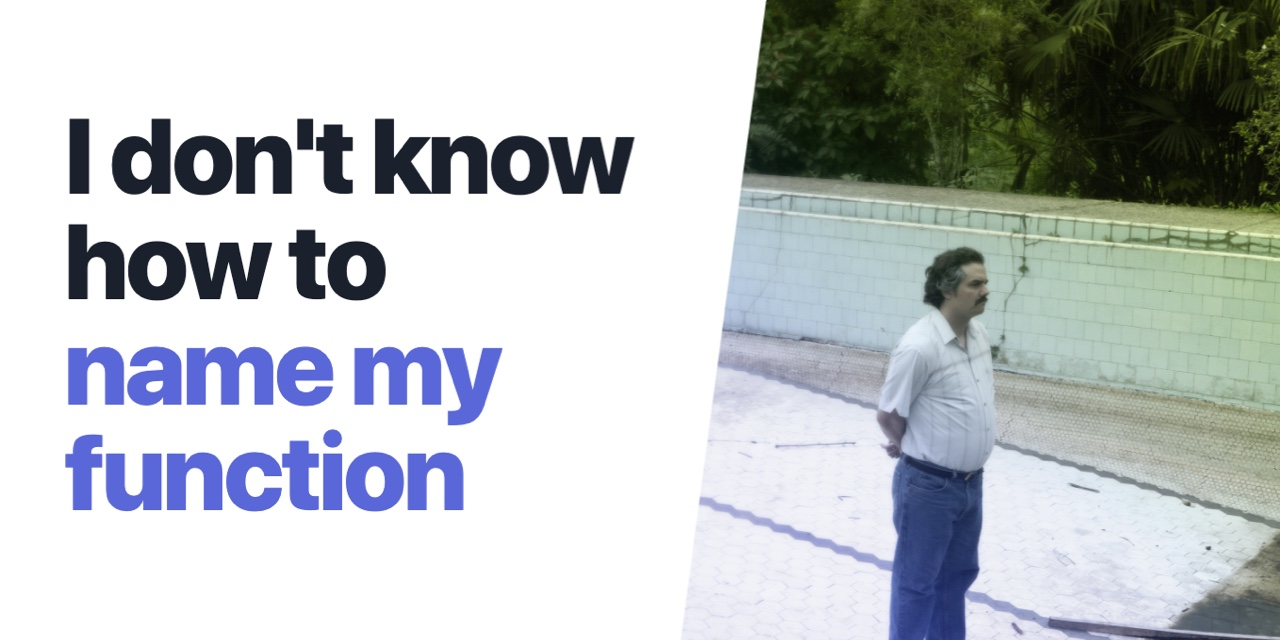
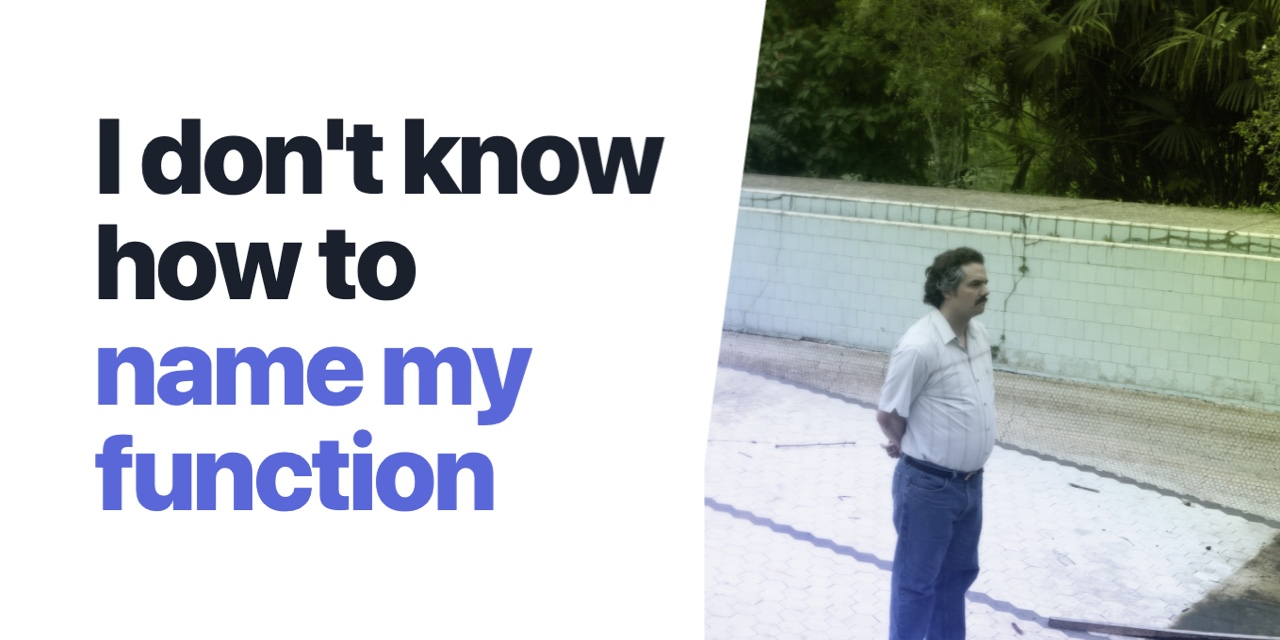
feat: improvements

Changed region(s): [[0.0312, 0.5312, 0.4375, 0.8125], [0.0312, 0.1875, 0.5312, 0.3125], [0.0312, 0.3438, 0.3438, 0.4688]]

diff --git a/src/pages/index.tsx b/src/pages/index.tsx
@@ -12,6 +12,7 @@ import Form from 'components/Form'
 import SyntaxHighlight from 'components/syntax'
 import Footer from 'components/footer'
 import createName from 'components/createName'
+import data from 'components/data'
 
 const IndexPage: React.FC = () => {
   const [state, setState] = useState<State>({
@@ -19,7 +20,7 @@ const IndexPage: React.FC = () => {
     functionalVerb: TypeFunctionVerb.Get,
     sideEffectVerb: TypeSideEffectVerb.Detach,
     functionReturnType: TypeReturn['List'],
-    context: 'Function name',
+    context: 'Table view',
     ninjaMode: false,
     reactHook: false,
   })
@@ -52,10 +53,14 @@ const IndexPage: React.FC = () => {
                     Development can be more challenging than you thought.
                   </span>{' '}
                   It&apos;s not about algorithms, data structures, or whatever,
-                  but about naming function and variables! (fearful face)
+                  but about naming functions and variables! (fearful face)
                   Here&apos;s a tool to help you in this intense journey: naming
                   a function.
                 </p>
+
+                <div className="lg:hidden block relative font-sans overflow-hidden mt-10">
+                  <SyntaxHighlight state={state} code={createName(state)} />
+                </div>
 
                 <AnimatePresence>
                   {started && (
@@ -74,15 +79,33 @@ const IndexPage: React.FC = () => {
                     <div className="rounded-md shadow">
                       <button
                         onClick={() => setStarted(true)}
-                        className="w-full flex items-center justify-center px-8 py-3 border border-transparent text-base leading-6 font-medium rounded-md text-white bg-indigo-600 hover:bg-indigo-500 focus:outline-none focus:border-indigo-700 focus:shadow-outline-indigo transition duration-150 ease-in-out md:py-4 md:text-lg md:px-10"
+                        className="shadow-xl w-full flex items-center justify-center px-8 py-3 border border-transparent text-base leading-6 font-medium rounded-md text-white bg-indigo-600 hover:bg-indigo-500 focus:outline-none focus:border-indigo-700 focus:shadow-outline-indigo transition duration-150 ease-in-out md:py-4 md:text-lg md:px-10"
                       >
                         Get started
                       </button>
                     </div>
                     <div className="mt-3 sm:mt-0 sm:ml-3">
-                      <button className="w-full flex items-center justify-center px-8 py-3 border border-transparent text-base leading-6 font-medium rounded-md text-indigo-700 bg-indigo-100 hover:text-indigo-600 hover:bg-indigo-50 focus:outline-none focus:shadow-outline-indigo focus:border-indigo-300 transition duration-150 ease-in-out md:py-4 md:text-lg md:px-10">
+                      <a
+                        target="_blank"
+                        rel="noreferrer"
+                        href={`https://twitter.com/intent/tweet?text=${data.description}%20%0A%0Ah${data.domain}`}
+                        className="w-full flex items-center justify-center px-8 py-3 border border-transparent text-base leading-6 font-medium rounded-md text-indigo-700 bg-indigo-100 hover:text-indigo-600 hover:bg-indigo-50 focus:outline-none focus:shadow-outline-indigo focus:border-indigo-300 transition duration-150 ease-in-out md:py-4 md:text-lg md:px-10"
+                      >
+                        <span
+                          className="text-indigo-500 mr-3"
+                          style={{ width: 20 }}
+                        >
+                          <svg
+                            xmlns="http://www.w3.org/2000/svg"
+                            width="100%"
+                            viewBox="0 0 24 24"
+                            className="fill-current "
+                          >
+                            <path d="M24 4.557a9.83 9.83 0 01-2.828.775 4.932 4.932 0 002.165-2.724 9.864 9.864 0 01-3.127 1.195 4.916 4.916 0 00-3.594-1.555c-3.179 0-5.515 2.966-4.797 6.045A13.978 13.978 0 011.671 3.149a4.93 4.93 0 001.523 6.574 4.903 4.903 0 01-2.229-.616c-.054 2.281 1.581 4.415 3.949 4.89a4.935 4.935 0 01-2.224.084 4.928 4.928 0 004.6 3.419A9.9 9.9 0 010 19.54a13.94 13.94 0 007.548 2.212c9.142 0 14.307-7.721 13.995-14.646A10.025 10.025 0 0024 4.557z" />
+                          </svg>
+                        </span>
                         Share
-                      </button>
+                      </a>
                     </div>
                   </div>
                 )}
@@ -94,11 +117,16 @@ const IndexPage: React.FC = () => {
         </div>
 
         <div
-          className="lg:absolute lg:inset-y-0 lg:right-0 lg:w-1/2 bg-right bg-cover bg-fixed"
+          className="hidden lg:block absolute inset-y-0 right-0 w-1/2 bg-right bg-cover bg-fixed"
           style={{ backgroundImage: 'url(hero.jpg)' }}
         >
           {started && (
-            <SyntaxHighlight state={state} code={createName(state)} />
+            <div
+              className="absolute font-sans overflow-hidden"
+              style={{ width: '70%', left: '15%', top: '45%' }}
+            >
+              <SyntaxHighlight state={state} code={createName(state)} />
+            </div>
           )}
         </div>
       </div>

diff --git a/src/pages/_app.tsx b/src/pages/_app.tsx
@@ -1,25 +1,24 @@
 import React from 'react'
 import '../../styles/index.css'
 import { NextSeo } from 'next-seo'
+import ReactGA from 'react-ga'
 
-const domain = 'http://namingmyfunction.vercel.app/'
+import data from 'components/data'
+
+ReactGA.initialize('G-5DPGX77TYQ')
 
 function MyApp({ Component, pageProps }: any) {
   return (
     <>
       <NextSeo
-        title="I don't know how to name my function"
-        description="It's not about algorithms, data structures, or whatever, but about naming function and variables! Here's a tool to help you in this intense journey: naming a function."
+        title={data.title}
+        description={data.description}
         openGraph={{
-          url: domain,
-          title: `I don't know how to name my function`,
-          description: 'Open Graph Description',
-          images: [
-            {
-              url: `${domain}/share.jpg`,
-            },
-          ],
-          site_name: 'SiteName',
+          url: data.domain,
+          title: data.title,
+          description: data.description,
+          images: [{ url: `${data.domain}/share.jpg` }],
+          site_name: data.title,
         }}
         twitter={{
           cardType: 'summary_large_image',

diff --git a/src/components/syntax.tsx b/src/components/syntax.tsx
@@ -19,10 +19,7 @@ const SyntaxHighlight: React.FC<{ code: string; state: State }> = ({
   }, [])
 
   return (
-    <div
-      className="absolute font-sans overflow-hidden"
-      style={{ width: '70%', left: '15%', top: '45%' }}
-    >
+    <>
       <motion.div initial={{ opacity: 0 }} animate={{ opacity: 1 }}>
         <button
           id="copy-to-clipboard"
@@ -47,7 +44,7 @@ const SyntaxHighlight: React.FC<{ code: string; state: State }> = ({
         <div
           className={`${
             isNinjaMode ? 'bg-gray-900' : 'bg-white'
-          } transition duration-200 transition-all ease-in-out shadow sm:rounded-lg p-10 text-xl`}
+          } transition duration-200 transition-all ease-in-out shadow rounded-lg p-10 text-xl`}
         >
           <p className="font-light tracking-wide">
             <span className="text-gray-500">function</span>{' '}
@@ -88,7 +85,7 @@ const SyntaxHighlight: React.FC<{ code: string; state: State }> = ({
         className="absolute"
         style={{ width: 100, bottom: -10, right: -10 }}
       />
-    </div>
+    </>
   )
 }
 

diff --git a/src/components/createName.ts b/src/components/createName.ts
@@ -25,7 +25,7 @@ const contentChange = (state: State): CompositionType => {
     verb,
     context: state.context,
     returnType,
-    preposition: 'from',
+    preposition: isFunctional ? 'from' : 'on',
   }
 
   if (returnType === TypeReturn.Boolean) {
@@ -61,7 +61,12 @@ const contentChange = (state: State): CompositionType => {
 }
 
 const setOrder = (composition: CompositionType, state: State): string[] => {
-  let order = [composition.verb, composition.returnType, composition.context]
+  let order = [
+    composition.verb,
+    composition.returnType,
+    composition.preposition,
+    composition.context,
+  ]
 
   // const isFunctional = state.type === TypeFunc.Functional
   // if (

diff --git a/src/components/data.ts b/src/components/data.ts
@@ -1,0 +1,5 @@
+export default {
+  title: `I don't know how to name my function`,
+  description: `Development can be more challenging than you thought. It's not about algorithms, data structures, or whatever, but about naming functions and variables! Here's a tool to help you in this intense journey: naming a function.`,
+  domain: 'http://namingmyfunction.vercel.app/',
+}
